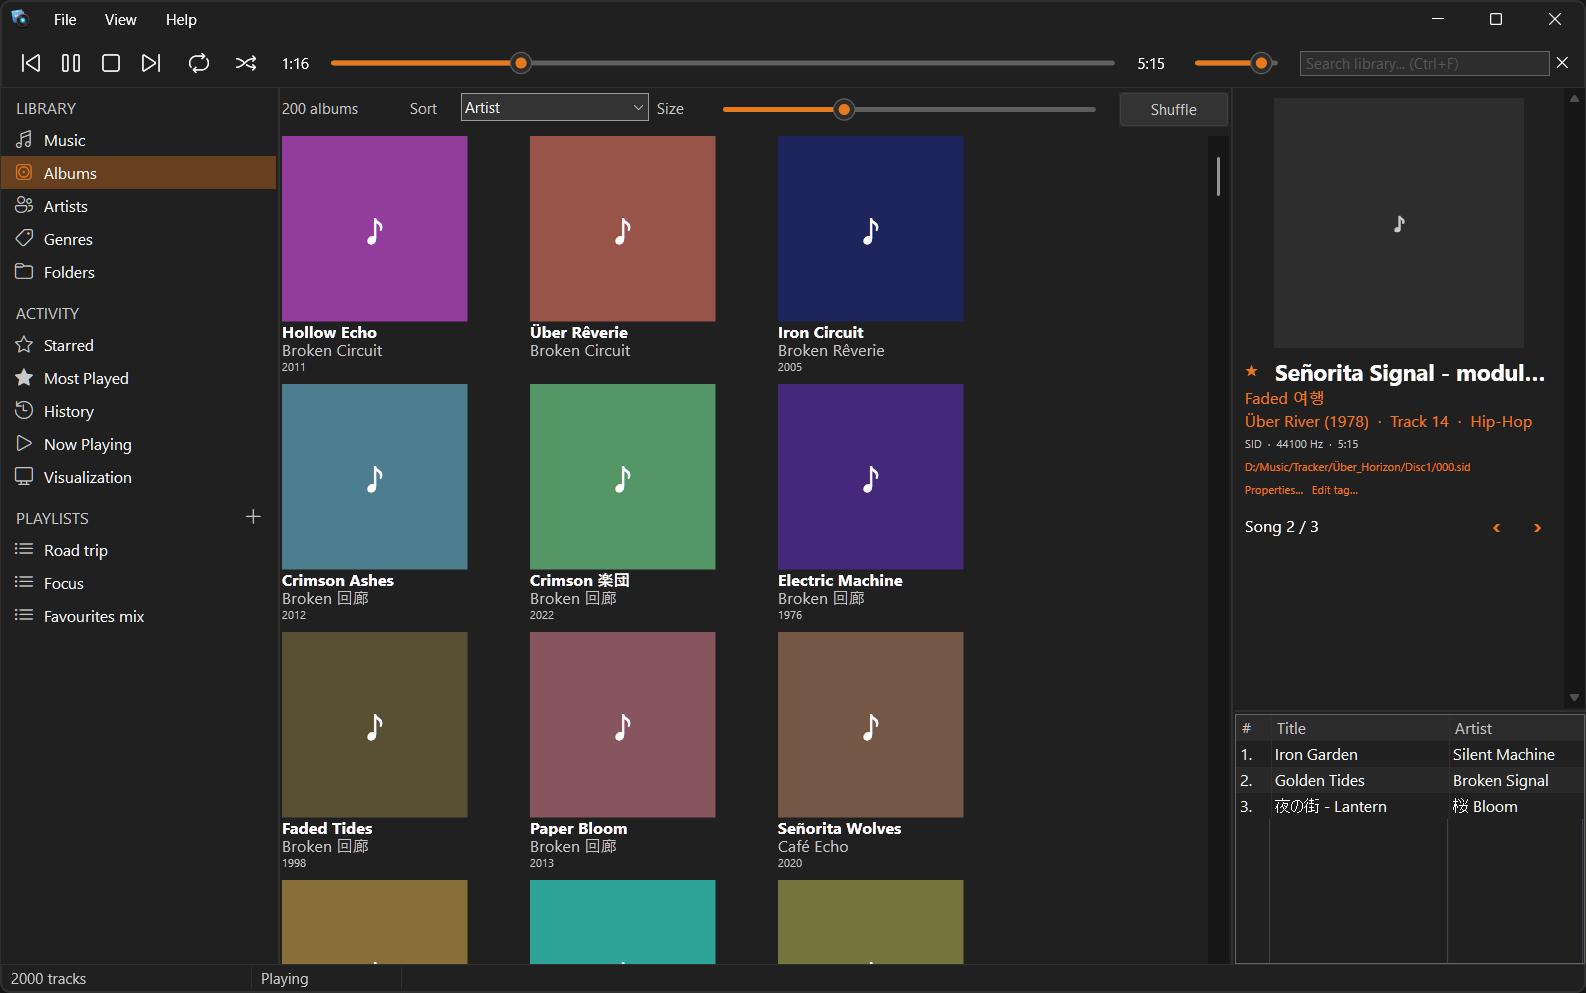
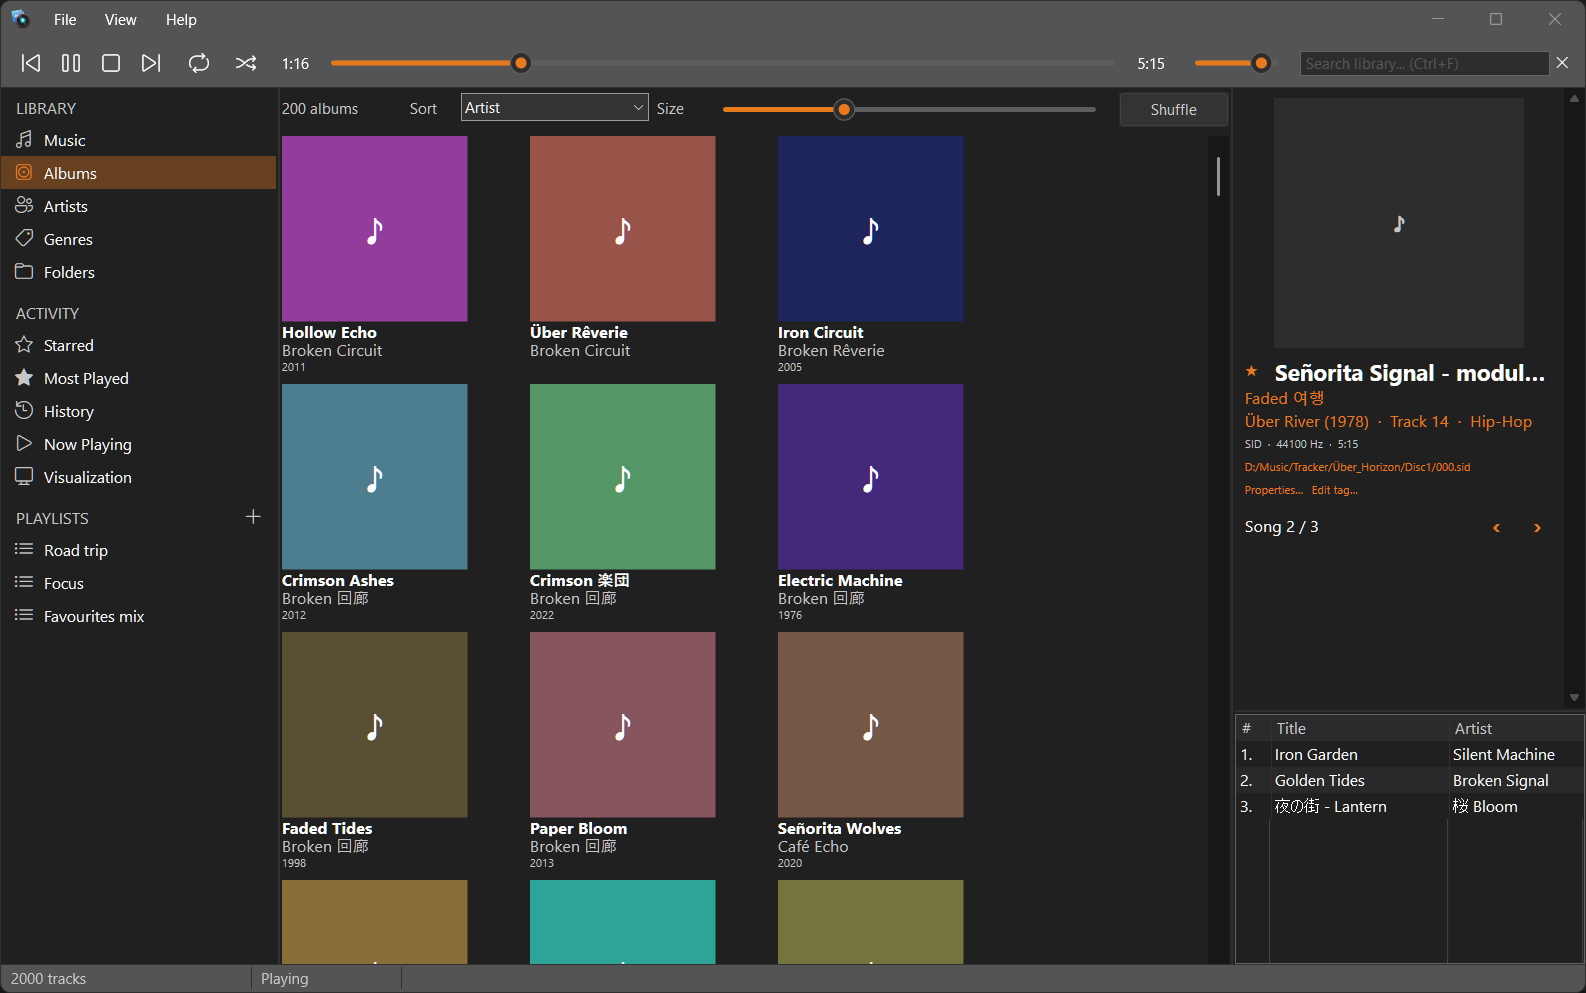
Albums: repaint the grid when covers finish decoding
Decoding moved off the UI thread, but the finished covers were only
uploaded into the thumbnail cache; nothing invalidated the grid, so a
tile whose decode completed while it was on screen kept its placeholder
until some unrelated repaint - looking like half the covers never load.

The win32 frontend now mirrors the portable one: RgbaSink counts its
uploads, ThumbState::drain reports whether any cover became available,
and sync() invalidates the grid so the placeholders are repainted as
their covers arrive.

diff --git a/crates/frontend-win32/src/views/album_grid/thumbs.rs b/crates/frontend-win32/src/views/album_grid/thumbs.rs
@@ -36,7 +36,11 @@ pub(super) type CoverCache = ThumbCache<RgbaSink>;
 
 /// Keeps decoded images as RGBA buffers for the Direct2D canvas. The image is
 /// already the cover size (see [`cover_decoder`]), so this only clones it.
-pub(super) struct RgbaSink;
+/// The upload count lets [`ThumbState::drain`] report that new covers became
+/// available.
+pub(super) struct RgbaSink {
+    uploads: u64,
+}
 
 impl ImageSink for RgbaSink {
     /// `None` only if the buffer is unusable; the grid then draws its
@@ -44,6 +48,7 @@ impl ImageSink for RgbaSink {
     type Handle = Option<Rc<RgbaImage>>;
 
     fn upload(&mut self, _key: u64, image: &Rgba8Image) -> Option<Rc<RgbaImage>> {
+        self.uploads += 1;
         Some(Rc::new(to_win32(image)))
     }
 }
@@ -64,7 +69,7 @@ impl ThumbState {
         cache.set_waker(waker);
         Self {
             cache,
-            sink: RgbaSink,
+            sink: RgbaSink { uploads: 0 },
         }
     }
 
@@ -79,9 +84,15 @@ impl ThumbState {
     /// once per frame before the grid paints. The shared cache caps uploads at
     /// four per call and wakes the UI while more are pending, so a burst of
     /// finished covers is spread over several frames instead of stalling one.
-    pub(super) fn drain(&mut self) {
+    ///
+    /// Returns whether any cover became available, so the view repaints the
+    /// grid exactly when one of its placeholders can be replaced: an upload
+    /// alone does not, the tiles need a paint to pick it up.
+    pub(super) fn drain(&mut self) -> bool {
+        let before = self.sink.uploads;
         let Self { cache, sink } = self;
         cache.drain(sink);
+        self.sink.uploads > before
     }
 }
 

diff --git a/crates/frontend-win32/src/views/album_grid/mod.rs b/crates/frontend-win32/src/views/album_grid/mod.rs
@@ -280,7 +280,7 @@ impl AlbumGridView {
         changes: Changes,
     ) -> bool {
         self.theme.set(theme);
-        self.thumbs.borrow_mut().drain();
+        let uploaded = self.thumbs.borrow_mut().drain();
 
         {
             let cx = Ctx::with_library(&[], playing_id, library).with_search(search);
@@ -326,6 +326,12 @@ impl AlbumGridView {
             .and_then(|key| self.tiles.iter().position(|tile| &tile.key == key));
         if self.grid.selected() != selected_index {
             self.grid.set_selected(selected_index);
+        }
+        // A decode finished since the last frame: repaint, so tiles here in
+        // view swap their placeholder for the cover a later paint would pick
+        // up anyway.
+        if uploaded {
+            self.grid.invalidate();
         }
 
         let selection_revision = state.album_grid.selection_revision();
